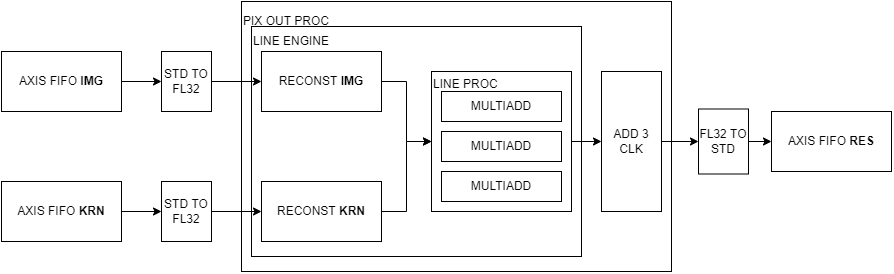
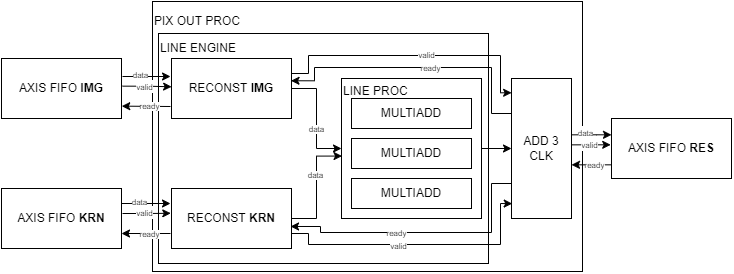
Changes in documentation about conv_v3 version with fixed point and AXI stream protocol

diff --git a/A-Eye_FPGA/README.md b/A-Eye_FPGA/README.md
@@ -1,47 +1,65 @@
 # FPGA part of project A-Eye
-Developpers : Guilhem ROLLAND  
+Developpers : Guilhem ROLLAND, Clement LEROY, Noemie ROLLAND  
 Versions : Vivado 2022.1, Vitis 2022.1  
 
 ## Introduction  
 The idea is here to accelerate in hardware the longest operation. Currently, the convolution take about 60 percent of the processing time. That's why we start by accelerating the convolution steps.  
 
-## Documentations v2-AXI4-S - Components  
+In the software treatments, all data are float32. That's why the first objective was to use same type of data in the hardware. It appears that float32 is not synthetizable. It is possible to work with simple std_logic_vector and to reconstuct all the float32 arithmetic with functions but it is very complicated. That's why float32 won't be used in hardware.
+It's easier to work with fixed point. This type is not synthetizable but the arithmetic is easy to reconstruct.  
+
+In this part, it is admitted that the conversion is done in software. In reality, this conversion is not done. This is one of the next change in the software.
+
+## Fixed point
+Fixed point are used in this development. It is a bit vector are 32 bits in our case with uone sign bit, 8 interger bits and 23 fraction bits. The precision is 2^-23.
+The following figure illustrates how a fixed point is formed :  
+![fixed_point](./diagrams/out/archi_v2/fixed_point.png)
+This is used in conv_v3 version.  
+
+
 
 ## Communication protocol : AXI4-Stream 
 To exchange data between two vhdl IP, we choose to use the AXI4-Stream protocol.  
 ### Signals
 It is based on three signals, when A want to send B some data :  
-- *data* : from A to B : transport the data. In our system, this is mainly of type float32, or one of its subtypes. The data is transmitted to B only when valid AND ready are high.
+- *data* : from A to B : transport the data. The data is transmitted to B only when valid AND ready are high on a risingedge of the clock. Data is based on std_logic_vector.
 - *valid* : from A to B : tell B that the data is valid and can be taken on the next clock cycle. This is based on std_logic.
-- *ready* : from B to A : tell to A that B is ready to get data on the next clock cycle. 
+- *ready* : from B to A : tell to A that B is ready to get data on the next clock cycle. This is based on std_logic.  
 ### Example
 - On reset, all signals are low.  
 - When B is ready to get data, it sets *ready* to high.
 - **For each clock cycle**, if *valid* is high and A see that *ready* is high too, A pushes *data* on output (B input).  
 - B must save as much data as there are cycle times where *valid* and *ready* are high.  
 
-Comment : *data* can be set before *valid* is high. But it's only when *valid* is high that *data* has to be captured. *valid* has to stay high until *ready* goes high, if not, the valid data will not be transmitted to B. 
+Comment : *data* can be set before *valid* is high. But it's only when *valid* is high that *data* has to be captured.  
+*valid* has to stay high until *ready* goes high, if not, the valid data will not be transmitted to B.  
 ![AXI4-S protocol](./diagrams/out/archi_v2/AXI4-S.png)
+
+## Documentations v2-AXI4-S - Components  
 
 ### Multiadd  
 #### Principle  
-This block must process a multiplication between two float32, one corresponding to the image, and one to the kernel.  
+This block must process a multiplication between two fixed point (1 bit sign, 8 bits integer and 23 bits fraction), one corresponding to the image, and one to the kernel.  
+The result of the multiplication of 2 fixed point of 32 bits is 64 bits. It's important to resize the result. That is why we get back only the result between bit 54 and bit 23.
+This figure shows how the multiplication resize is done :
+![fixed point multiplication](./diagrams/out/archi_v2/fixed_point_multiplication.png)
+
 This compute is parallelized in three block, one for each channel (in the first convolution, each channel correponds to one color).  
 Once done, we add the three results of the multiplier and obtain the final result.  
 ![cmp_multiadd](./diagrams/out/archi_v2/multiadd.png)  
 #### Memory occupation  
-Once synthesized on Vivado for the zybo z7 20, we can see that it will used 13% of LUTs and only 3% of DSPs.  
+Once synthesized on Vivado for the zybo z7 20, we can see that it will used 0.13% of LUTs and only 1.6% of DSPs.  
 
 ### Line_process  
 #### Principle  
 As shown above, we have spaces left and can parallelize 3 pixels processing engine (multiadd component). This is the goal of the line_process.  
-Thus, the 3x3x3 convolution works with a line_process block which can process 3x3 float32. The process has to be repeated only 3 times so.  
+Thus, the 3x3x3 convolution works with a line_process block which can process 3x3 fixed point. The process has to be repeated only 3 times so.  
 ![cmp_line_process](./diagrams/out/archi_v2/line_process.png)  
 #### Memory occupation  
-Now, we used 44% of the LUTs.  We need one clock cycle to compute one line of 3 RGB pixels.  
+Now, we used 0.6% of the LUTs and 5% of DSPs.  We need one clock cycle to compute one line of 3 RGB pixels.  
 
 ### Rebuilding the arrays  
-We have noticed that IO are limited on FPGA. That's why we choose to use axi stream protocol to receive and transmit datas. Thus, we use 32 IO to input float32 one by one (plus 2 IO for axi stream protocol), and we have to recompile the array inside the FPGA.  
+We have noticed that IO are limited on FPGA. That's why we choose to use axi stream protocol to receive and transmit datas. Thus, we use 32 IO to input fixed point one by one (plus 2 IO for axi stream protocol), and we have to recompile the array inside the FPGA.  
 ![Reconst](./diagrams/out/archi_v2/reconst.png)  
 We can now instantiate two of them, one for image and one for kernel.  
 Here is a chronogram to explain what happen :
@@ -52,34 +70,24 @@ Here is a chronogram to explain what happen :
 #### Principle  
 Once we have the previous modules, able to compute 3 RGB pixels, we need to repeat three time the process to compute a 3x3 RGB pixels matrix, to output one monochrome pixel for one filter.  
 #### Output system  
-We have to get three floats, to add them, and output the result. This is done by this architecture :  
+We have to get three fixed point, to add them, and output the result. This is done by this architecture :  
 ![Output_pixel_arch](./diagrams/out/archi_v2/adder_3_clk.png)  
 This is composed by an adder on the data, and a control system based on a counter, maximize by 2.  
 Here is a chronogram to explain what happen :
 ![Add3clk chronogram](./diagrams/out/archi_v2/add3clk_chrono.png)  
 
-
-#### Complete pixel output processing system  
-The system looks like this :   
-![conv_system](./diagrams/out/archi_v2/pix_out_proc.png)   
-
-### Wrapper  
-#### Introduction  
-To implement the pixel output processing system in a vivado block design, we have to map the float in input and output to std_logic_vector. To do this, we first need to design wrapper, wrapper_fl_to_std for float32 to std_logic_vector(31 downto 0) and wrapper_std_to_fl for std_logic_vector(31 downto 0) to float32.  
-#### std_logic_vector to float32  
-In this wrapper, we map one bit of std_logic_vector(31 downto 0) to one bit of float32, also known as float(8 downto -23). We repeat this mapping for each bit. We want to keep valid and ready signal as they were, so just map it.    
-![wrapper_std_to_fl](./diagrams/out/archi_v2/wrapper_std_to_fl.png)  
-#### float32 to std_logic_vector  
-Here we do the reverse thing as above.   
-
+ 
+The complete convolution architecture is as follows :  
+  
+![Conv Architecture with AXI stream Fifo IP](./diagrams/out/archi_v2/archi_conv_axi_fifo.png) 
 
 ## DMA architecture  
 To improve data transfer, we choose to implement DMA. The system is described by the following diagram.  
 ![DMA_Architecture](./diagrams/out/archi_v2/DMA%20data%20transfert%20for%20convolution.png)  
   
-Let's do a little focus on the Fifo BRAM and the Conv IP. Because of the use of AXI Stream Fifo IP, the conversion to float32 must be after the fifo (because it works with std_logic_vector). The architecture is as follows :  
-![Conv Architecture with AXI stream Fifo IP](./diagrams/out/archi_v2/archi_conv_axi_fifo.png) 
-
+## Documentations v2  
+### Conclusion on v2  
+Float32 is not synthetizable and float32 arithmetic is hard to reconstruct. Thus, we switch to v3 instead of v2.
 
 ## Documentations v1  
 ### What has been done
